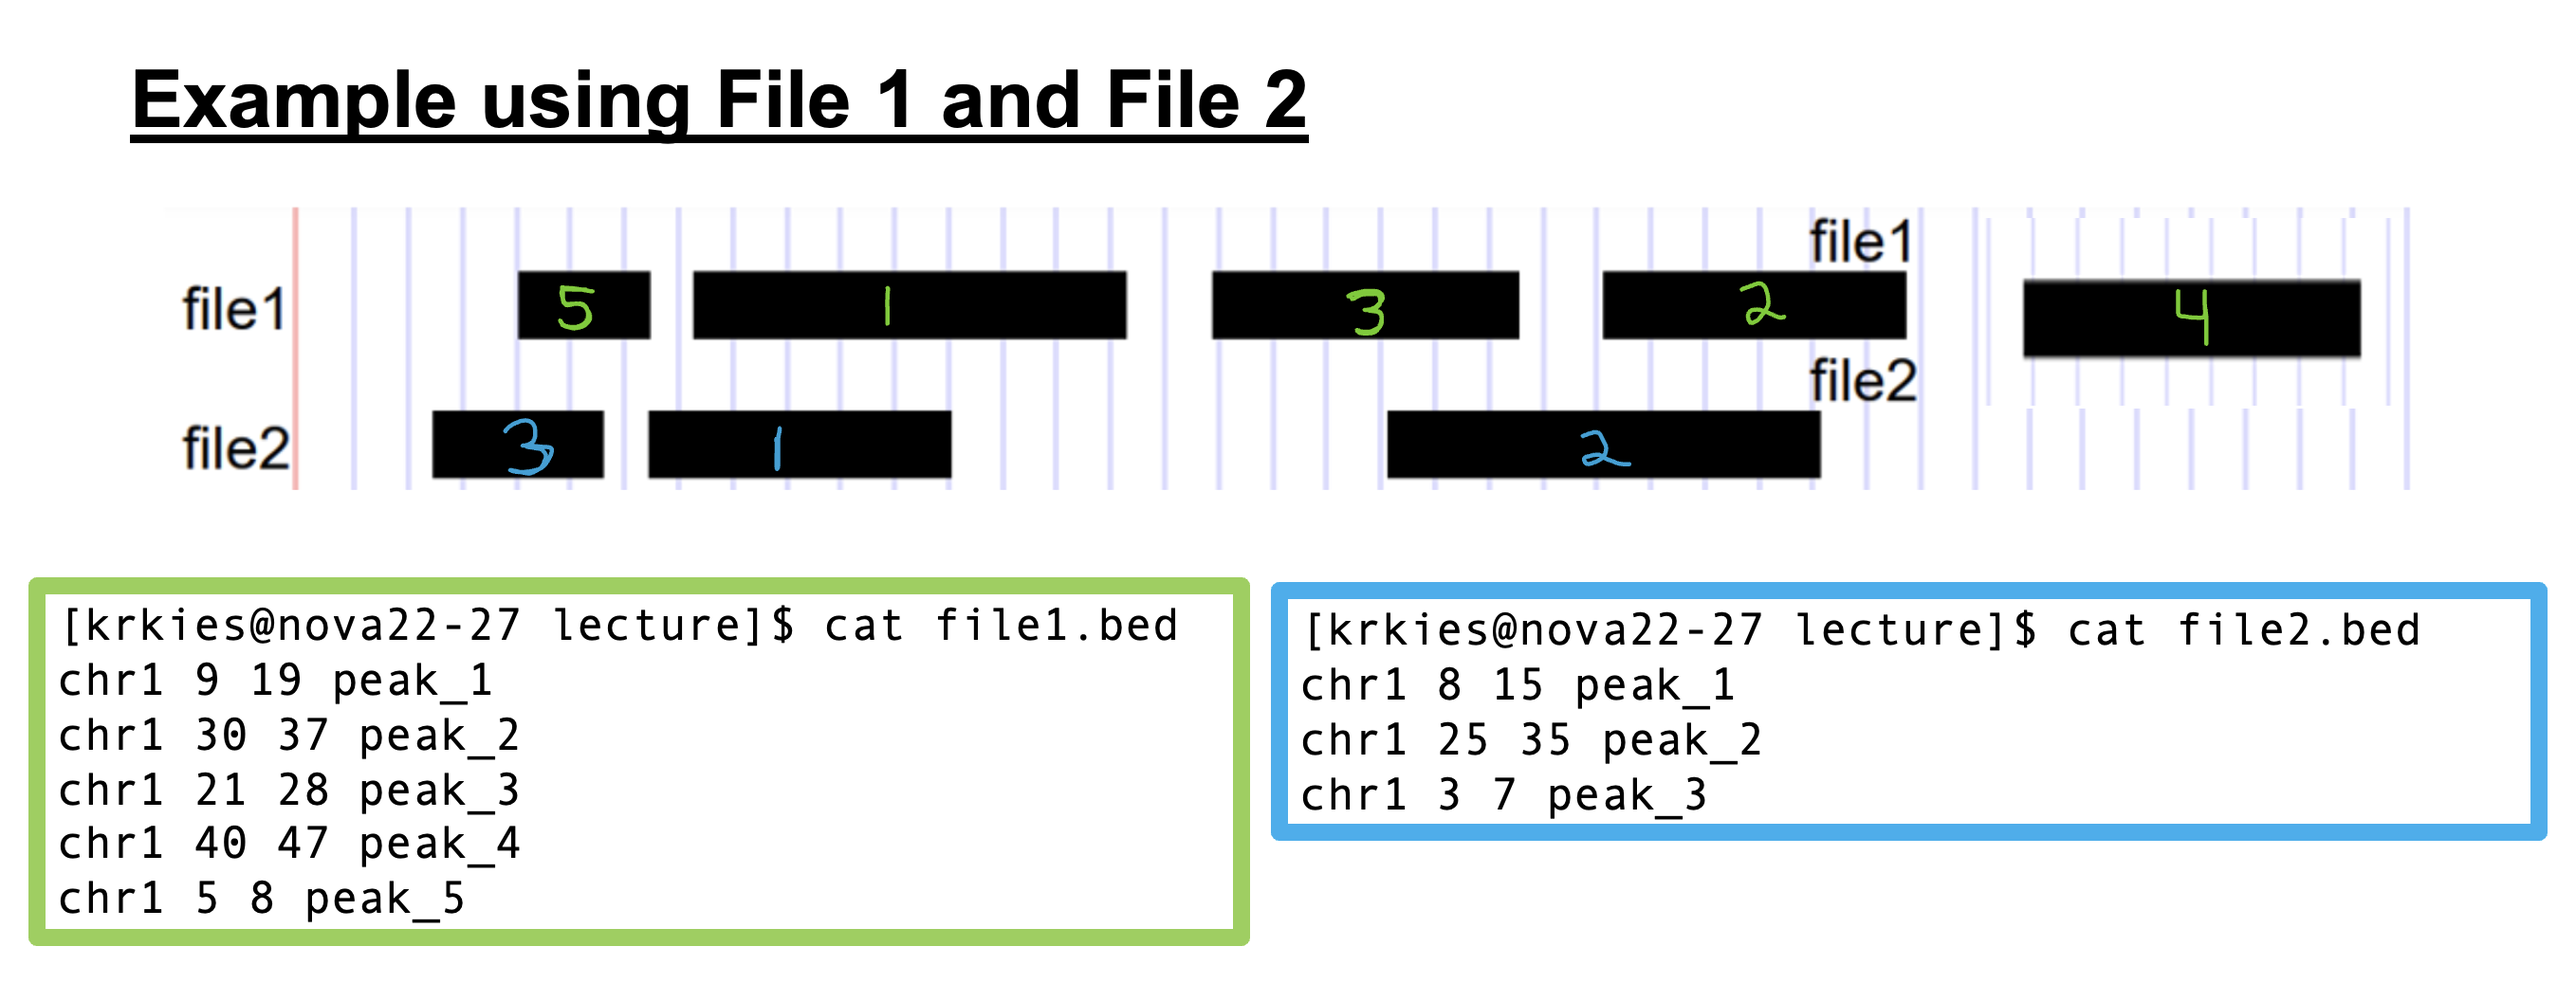
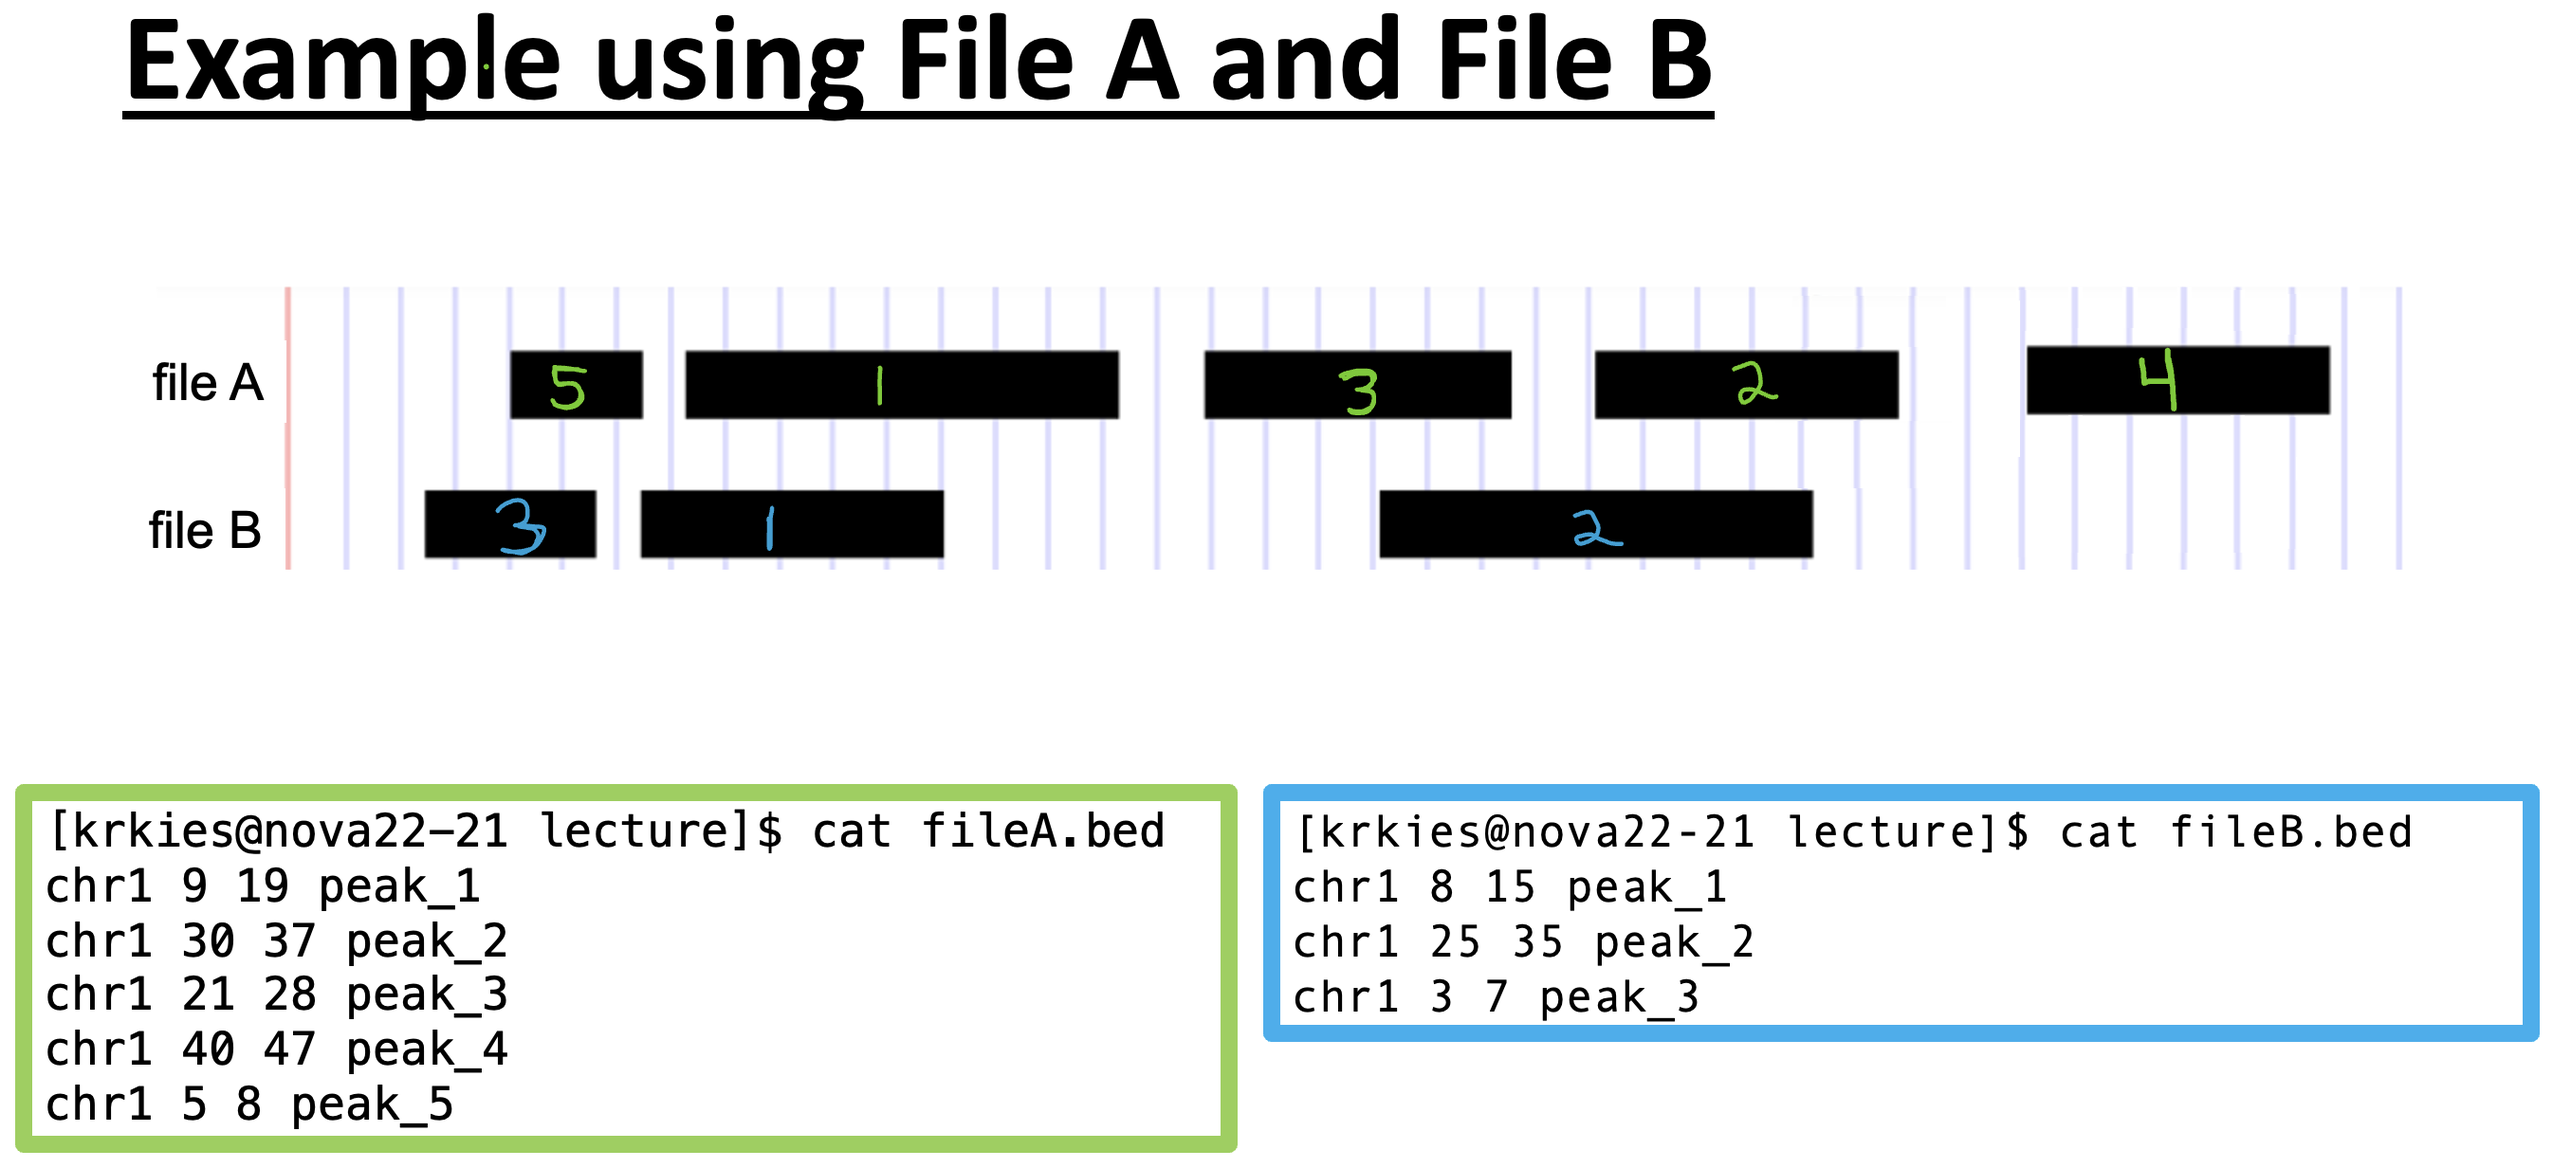
Changed File1 and File2

diff --git a/lecture/Week15_lecture.md b/lecture/Week15_lecture.md
@@ -41,7 +41,7 @@ BEDTools is a software package that allows easy comparison of genomic data.
 #### Default behavior:
 By default, if an overlap is found, `bedtools intersect` reports the shared interval between the two overlapping regions.
 
-For example, `bedtools intersect -a file1.bed -b file2.bed`
+For example, `bedtools intersect -a fileA.bed -b fileB.bed`
 
 What is the A file and B file in this case?
 
@@ -52,7 +52,7 @@ What is the A file and B file in this case?
 Instead, one can force `bedtools intersect` to report the original “A” feature when an overlap is found. As shown below, the entire “A” feature is reported, not just the portion that overlaps with the “B” feature.
 
 ```
-bedtools intersect -wa -a file1.bed -b file2.bed
+bedtools intersect -wa -a fileA.bed -b fileB.bed
 ```
 
 <img src="/images/bedtools-wa.PNG" />
@@ -61,7 +61,7 @@ bedtools intersect -wa -a file1.bed -b file2.bed
 Similarly, one can force bedtools intersect to report the original “B” feature when an overlap is found. If just -wb is used, the overlapping portion of A will be reported followed by the original “B”. 
 
 ```
-bedtools intersect -wb -a file1.bed -b file2.bed
+bedtools intersect -wb -a fileA.bed -b fileB.bed
 ```
 
 <img src="/images/bedtools-wb.PNG" />
@@ -69,19 +69,19 @@ bedtools intersect -wb -a file1.bed -b file2.bed
 #### Both -wa and -wb
 If both `-wa` and `-wb` are used, the originals of both “A” and “B” will be reported.
 ```
-bedtools intersect -wa -wb -a file1.bed -b file2.bed
+bedtools intersect -wa -wb -a fileA.bed -b fileB.bed
 ```
 
 #### -v
 Only report those entries in A that have no overlap in B.
 ```
-bedtools intersect -v -a file1.bed -b file2.bed
+bedtools intersect -v -a fileA.bed -b fileB.bed
 ```
 <img src="/images/bedtools-v.PNG" />
     
 #### -u
 Write original A entry once if any overlaps found in B. In other words, just report the fact at least one overlap was found in B.
 
-Try `bedtools intersect -wa -a file2.bed -b file1.bed` and `bedtools intersect -u -wa -a file2.bed -b file1.bed`. 
+Try `bedtools intersect -wa -a fileB.bed -b fileA.bed` and `bedtools intersect -u -wa -a fileB.bed -b fileA.bed`. 
 
 What's the difference?
